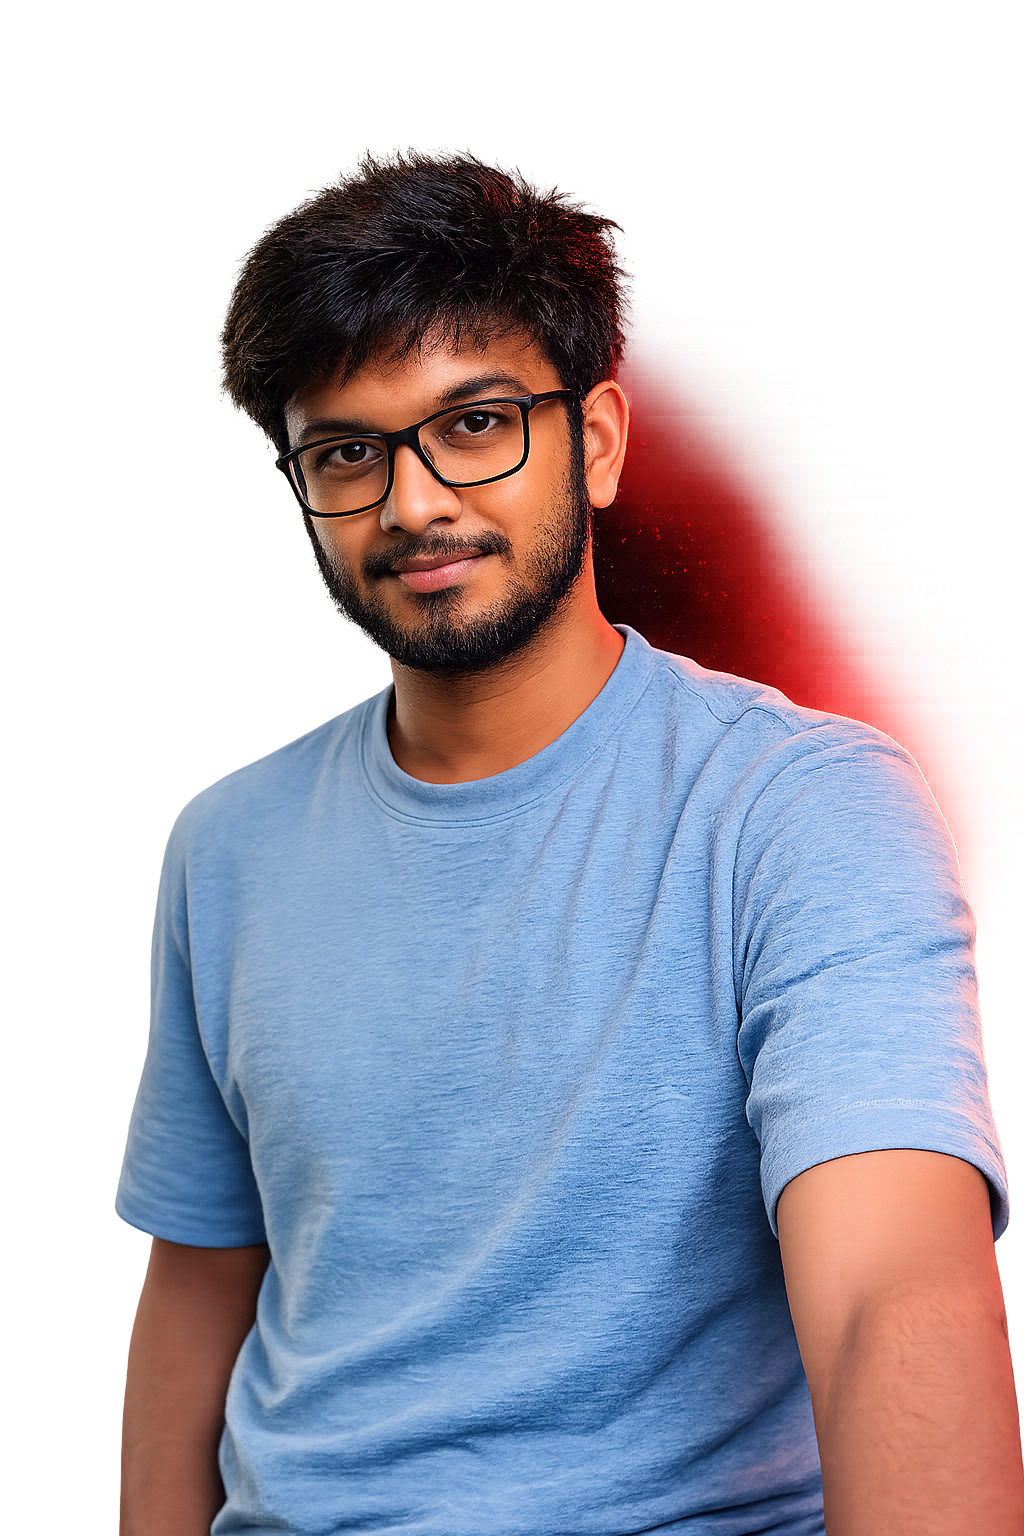
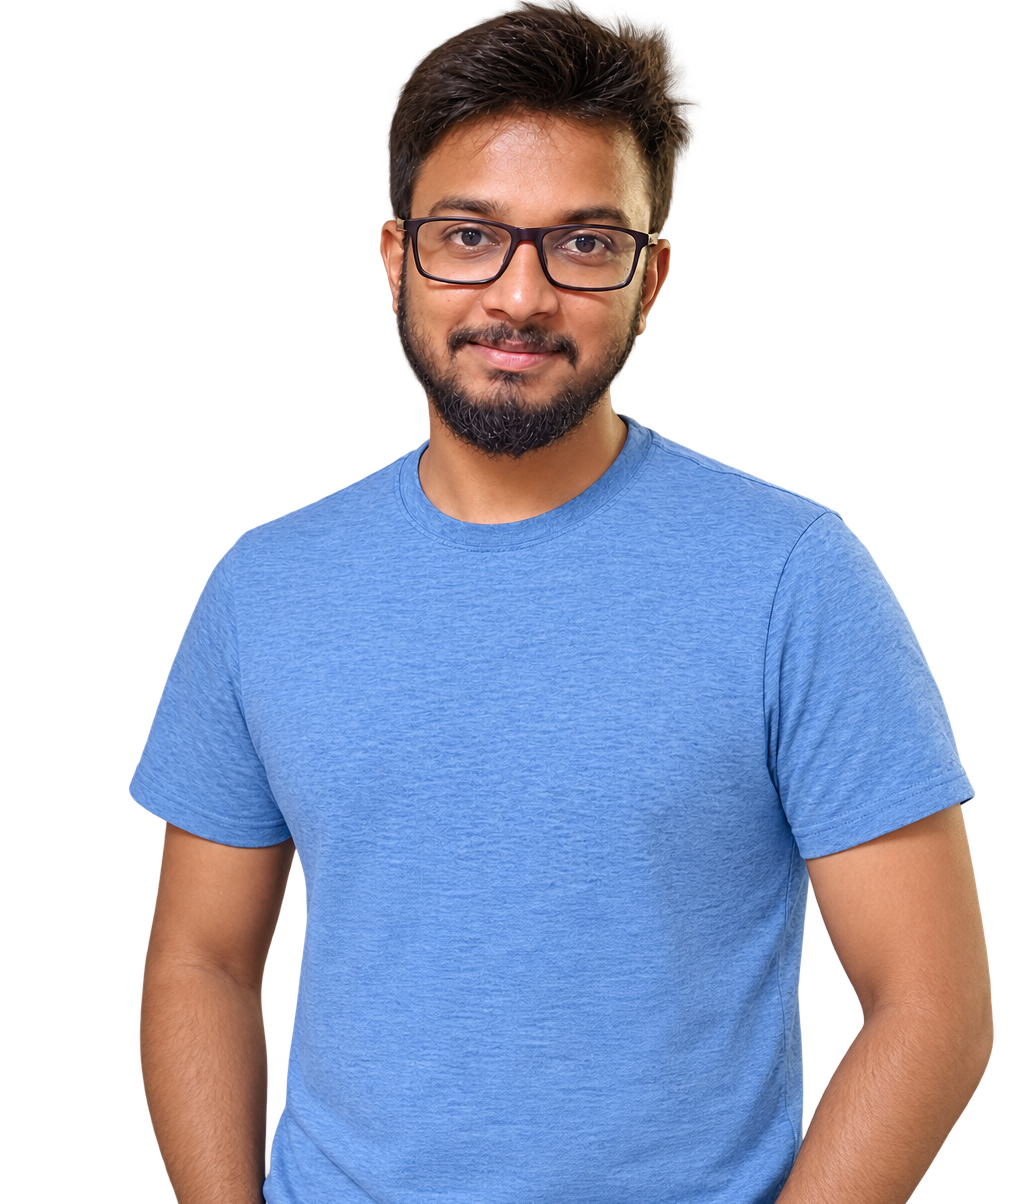
Added new feature

diff --git a/src/components/Contact.jsx b/src/components/Contact.jsx
@@ -1,97 +1,88 @@
-import { useRef, useState } from "react";
-import emailjs from "@emailjs/browser";
+import { ExternalLink , Mail, MapPin } from "lucide-react";
+// Update these if anything changes.
+const CONTACT = {
+  email: "tejeshmanoharan@gmail.com",
+  linkedinHref: "https://www.linkedin.com/in/tejeshwaran-manoharan-4076b7201",
+  linkedinLabel: "linkedin.com/in/tejeshwaran-manoharan",
+  location: "Berlin, Germany",
+};
+
+const ITEMS = [
+  {
+    key: "linkedin",
+    icon: ExternalLink,
+    label: "LinkedIn",
+    value: CONTACT.linkedinLabel,
+    href: CONTACT.linkedinHref,
+    external: true,
+  },
+  {
+    key: "email",
+    icon: Mail,
+    label: "Email",
+    value: CONTACT.email,
+    href: `mailto:${CONTACT.email}`,
+    external: false,
+  },
+  {
+    key: "location",
+    icon: MapPin,
+    label: "Location",
+    value: CONTACT.location,
+    href: null,
+    external: false,
+  },
+];
 
 function Contact() {
-  const form = useRef();
-  const [status, setStatus] = useState("");
-
-  const sendEmail = (e) => {
-    e.preventDefault();
-
-    emailjs
-      .sendForm(
-        "service_v56hjlq",
-        "template_5u96atw",
-        form.current,
-        "pA2K3rxlvtwtiv0lX"
-      )
-      .then(
-        () => {
-          setStatus("Message sent successfully!");
-          form.current.reset();
-        },
-        (error) => {
-          console.log("EmailJS error:", error);
-          setStatus("Something went wrong. Please try again.");
-        }
-      );
-  };
-
   return (
-    <section id="contact" className="min-h-screen bg-black text-white px-6 py-20">
-      <div className="max-w-5xl mx-auto text-center">
+    <section id="Contact" className="bg-black text-white px-6 py-20">
+      <div className="mx-auto max-w-5xl text-center">
         <h2 className="text-4xl font-bold mb-4">
           Contact <span className="text-red-600">Me</span>
         </h2>
 
-        <p className="text-gray-400 mb-12">
-          Feel free to contact me for job opportunities, projects, or collaboration.
+        <p className="text-gray-400 mb-16">
+          Feel free to reach out for job opportunities, projects, or collaboration.
         </p>
 
-        <div className="grid md:grid-cols-2 gap-10 text-left">
-          <div className="space-y-6">
-            <div>
-              <h3 className="text-xl font-bold text-red-600">Email</h3>
-              <p className="text-gray-300">tejeshmanoharan@gmail.com</p>
-            </div>
+        <div className="grid gap-6 sm:grid-cols-3">
+          {ITEMS.map((item) => {
+            const Icon = item.icon;
 
-            <div>
-              <h3 className="text-xl font-bold text-red-600">Location</h3>
-              <p className="text-gray-300">Berlin, Germany</p>
-            </div>
+            const content = (
+              <div className="flex flex-col items-center">
+                <span className="flex h-16 w-16 items-center justify-center rounded-full border border-red-600 transition-all duration-300 group-hover:bg-red-600">
+                  <Icon
+                    className="h-6 w-6 text-red-600 transition-colors duration-300 group-hover:text-white"
+                    strokeWidth={1.75}
+                    aria-hidden="true"
+                  />
+                </span>
+                <h3 className="mt-5 text-xl font-bold text-red-600">{item.label}</h3>
+                <p className="mt-1 break-words text-gray-300">
+                  {item.value}
+                  {item.external && <span className="sr-only"> (opens in new tab)</span>}
+                </p>
+              </div>
+            );
 
-            <div>
-              <h3 className="text-xl font-bold text-red-600">LinkedIn</h3>
-              <p className="text-gray-300 break-words">
-                https://www.linkedin.com/in/tejeshwaran-manoharan-4076b7201
-              </p>
-            </div>
-          </div>
-
-          <form ref={form} onSubmit={sendEmail} className="space-y-4">
-            <input
-              type="text"
-              name="user_name"
-              placeholder="Your Name"
-              required
-              className="w-full p-3 rounded bg-gray-900 border border-gray-700 outline-none focus:border-red-600"
-            />
-
-            <input
-              type="email"
-              name="user_email"
-              placeholder="Your Email"
-              required
-              className="w-full p-3 rounded bg-gray-900 border border-gray-700 outline-none focus:border-red-600"
-            />
-
-            <textarea
-              name="message"
-              placeholder="Your Message"
-              rows="5"
-              required
-              className="w-full p-3 rounded bg-gray-900 border border-gray-700 outline-none focus:border-red-600"
-            ></textarea>
-
-            <button
-              type="submit"
-              className="bg-red-600 hover:bg-red-700 px-6 py-3 rounded font-bold transition"
-            >
-              Send Message
-            </button>
-
-            {status && <p className="text-gray-300">{status}</p>}
-          </form>
+            return item.href ? (
+              <a
+                key={item.key}
+                href={item.href}
+                target={item.external ? "_blank" : undefined}
+                rel={item.external ? "noopener noreferrer" : undefined}
+                className="group rounded-2xl p-4 outline-none transition-colors focus-visible:ring-2 focus-visible:ring-red-600 focus-visible:ring-offset-2 focus-visible:ring-offset-black"
+              >
+                {content}
+              </a>
+            ) : (
+              <div key={item.key} className="group rounded-2xl p-4">
+                {content}
+              </div>
+            );
+          })}
         </div>
       </div>
     </section>

diff --git a/src/components/Backups/Contact.jsx b/src/components/Backups/Contact.jsx
@@ -1,0 +1,101 @@
+import { useRef, useState } from "react";
+import emailjs from "@emailjs/browser";
+
+function Contact() {
+  const form = useRef();
+  const [status, setStatus] = useState("");
+
+  const sendEmail = (e) => {
+    e.preventDefault();
+
+    emailjs
+      .sendForm(
+        "service_v56hjlq",
+        "template_5u96atw",
+        form.current,
+        "pA2K3rxlvtwtiv0lX"
+      )
+      .then(
+        () => {
+          setStatus("Message sent successfully!");
+          form.current.reset();
+        },
+        (error) => {
+          console.log("EmailJS error:", error);
+          setStatus("Something went wrong. Please try again.");
+        }
+      );
+  };
+
+  return (
+    <section id="contact" className="min-h-screen bg-black text-white px-6 py-20">
+      <div className="max-w-5xl mx-auto text-center">
+        <h2 className="text-4xl font-bold mb-4">
+          Contact <span className="text-red-600">Me</span>
+        </h2>
+
+        <p className="text-gray-400 mb-12">
+          Feel free to contact me for job opportunities, projects, or collaboration.
+        </p>
+
+        <div className="grid md:grid-cols-2 gap-10 text-left">
+          <div className="space-y-6">
+            <div>
+              <h3 className="text-xl font-bold text-red-600">Email</h3>
+              <p className="text-gray-300">tejeshmanoharan@gmail.com</p>
+            </div>
+
+            <div>
+              <h3 className="text-xl font-bold text-red-600">Location</h3>
+              <p className="text-gray-300">Berlin, Germany</p>
+            </div>
+
+            <div>
+              <h3 className="text-xl font-bold text-red-600">LinkedIn</h3>
+              <p className="text-gray-300 break-words">
+                https://www.linkedin.com/in/tejeshwaran-manoharan-4076b7201
+              </p>
+            </div>
+          </div>
+
+          <form ref={form} onSubmit={sendEmail} className="space-y-4">
+            <input
+              type="text"
+              name="user_name"
+              placeholder="Your Name"
+              required
+              className="w-full p-3 rounded bg-gray-900 border border-gray-700 outline-none focus:border-red-600"
+            />
+
+            <input
+              type="email"
+              name="user_email"
+              placeholder="Your Email"
+              required
+              className="w-full p-3 rounded bg-gray-900 border border-gray-700 outline-none focus:border-red-600"
+            />
+
+            <textarea
+              name="message"
+              placeholder="Your Message"
+              rows="5"
+              required
+              className="w-full p-3 rounded bg-gray-900 border border-gray-700 outline-none focus:border-red-600"
+            ></textarea>
+
+            <button
+              type="submit"
+              className="bg-red-600 hover:bg-red-700 px-6 py-3 rounded font-bold transition"
+            >
+              Send Message
+            </button>
+
+            {status && <p className="text-gray-300">{status}</p>}
+          </form>
+        </div>
+      </div>
+    </section>
+  );
+}
+
+export default Contact;

diff --git a/src/components/About.jsx b/src/components/About.jsx
@@ -45,28 +45,25 @@ function About() {
           <div className="max-w-xl">
 
             <p className="text-2xl md:text-3xl font-semibold leading-snug mb-8">
-              Hi, I'm Tejesh 👋
+               Hello! Tejesh here👋
             </p>
 
             <div className="space-y-6 text-lg md:text-xl text-gray-400 leading-relaxed">
 
               <p>
-                I'm a web developer with a background in data analytics.
-                I enjoy creating clean, responsive websites using modern
-                frontend technologies.
+                I enjoy creating things, solving problems, and turning random ideas into projects that somehow end up working. 
+                For me, development isn’t just about writing code — it’s about taking an idea and asking, “Okay... 
+                how can I make this actually useful?”
               </p>
-
               <p>
-                My experience with Python, Tableau, Power BI, and Excel also
-                allows me to work with data and turn it into meaningful
-                insights.
+                I’m naturally curious, which means I’m always learning something new. Some days I’m building, some days 
+                I’m experimenting, and some days I’m just fighting with a bug that apparently has a personal problem with me.😂
               </p>
-
               <p>
-                I'm continuously improving my skills, learning German, and
-                building real-world projects that help me grow as a developer.
+                Outside of all the screens and keyboards, I’m also learning German 🇩🇪, exploring new ideas, and trying to become a little better than I was yesterday.
+                I don’t have everything figured out yet — and honestly, I think that’s the fun part.
+                Build. Learn. Break things. Fix them. Repeat. 🚀
               </p>
-
             </div>
 
             {/* Button */}

diff --git a/src/components/Hero.jsx b/src/components/Hero.jsx
@@ -3,7 +3,7 @@ import heroImage from "../assets/hero.png";
 
 function Hero() {
   return (
-    <section className="min-h-screen bg-black text-white relative overflow-hidden">
+    <section id="hero" className="min-h-screen bg-black text-white relative overflow-hidden">
       <Navbar />
 
       {/* Background Circles */}
@@ -34,20 +34,11 @@ function Hero() {
               target="_blank"
               rel="noopener noreferrer"
             >
-              <button className="bg-red-600 px-8 py-3 rounded-lg font-bold hover:bg-red-700 w-full sm:w-auto">
+              <button className="bg-red-600 m-2 px-14 py-3 rounded-lg font-bold hover:bg-red-700 w-full sm:w-auto">
                 LinkedIn
               </button>
             </a>
 
-            <a
-              href="/Lebenslauf_Tejeshwaran_Manoharan.pdf"
-              target="_blank"
-              rel="noopener noreferrer"
-            >
-              <button className="bg-red-600 px-8 py-3 rounded-lg font-bold hover:bg-red-700 w-full sm:w-auto">
-                Resume
-              </button>
-            </a>
           </div>
         </div>
 
@@ -58,7 +49,7 @@ function Hero() {
           <img
             src={heroImage}
             alt="Tejeshwaran"
-            className="absolute bottom-0 left-1/2 -translate-x-1/2 w-[260px] md:w-[420px]"
+            className="absolute w-full h-auto bottom-0 left-1/2 -translate-x-1/2 md:w-[420px]"
           />
         </div>
       </div>

diff --git a/src/components/Navbar.jsx b/src/components/Navbar.jsx
@@ -18,7 +18,7 @@ function Navbar() {
 
           <li>
             <a 
-              href="/" 
+              href="#hero" 
               className="hover:text-red-500 transition-all duration-300"
             >
               Home
@@ -46,12 +46,20 @@ function Navbar() {
           </li>
 
 
-          <li>
+          {/* <li>
             <a 
               href="#projects" 
               className="hover:text-red-500 transition-all duration-300"
             >
               Projects
+            </a>
+          </li> */}
+          <li>
+            <a 
+              href="#languages" 
+              className="hover:text-red-500 transition-all duration-300"
+            >
+              Languages
             </a>
           </li>
 

diff --git a/src/components/Language.jsx b/src/components/Language.jsx
@@ -11,7 +11,7 @@ import {
 const languages = {
   german: {
     name: "GERMAN",
-    level: "B1",
+    level: "B2",
     description: "Intermediate",
     type: "main",
     skills: [
